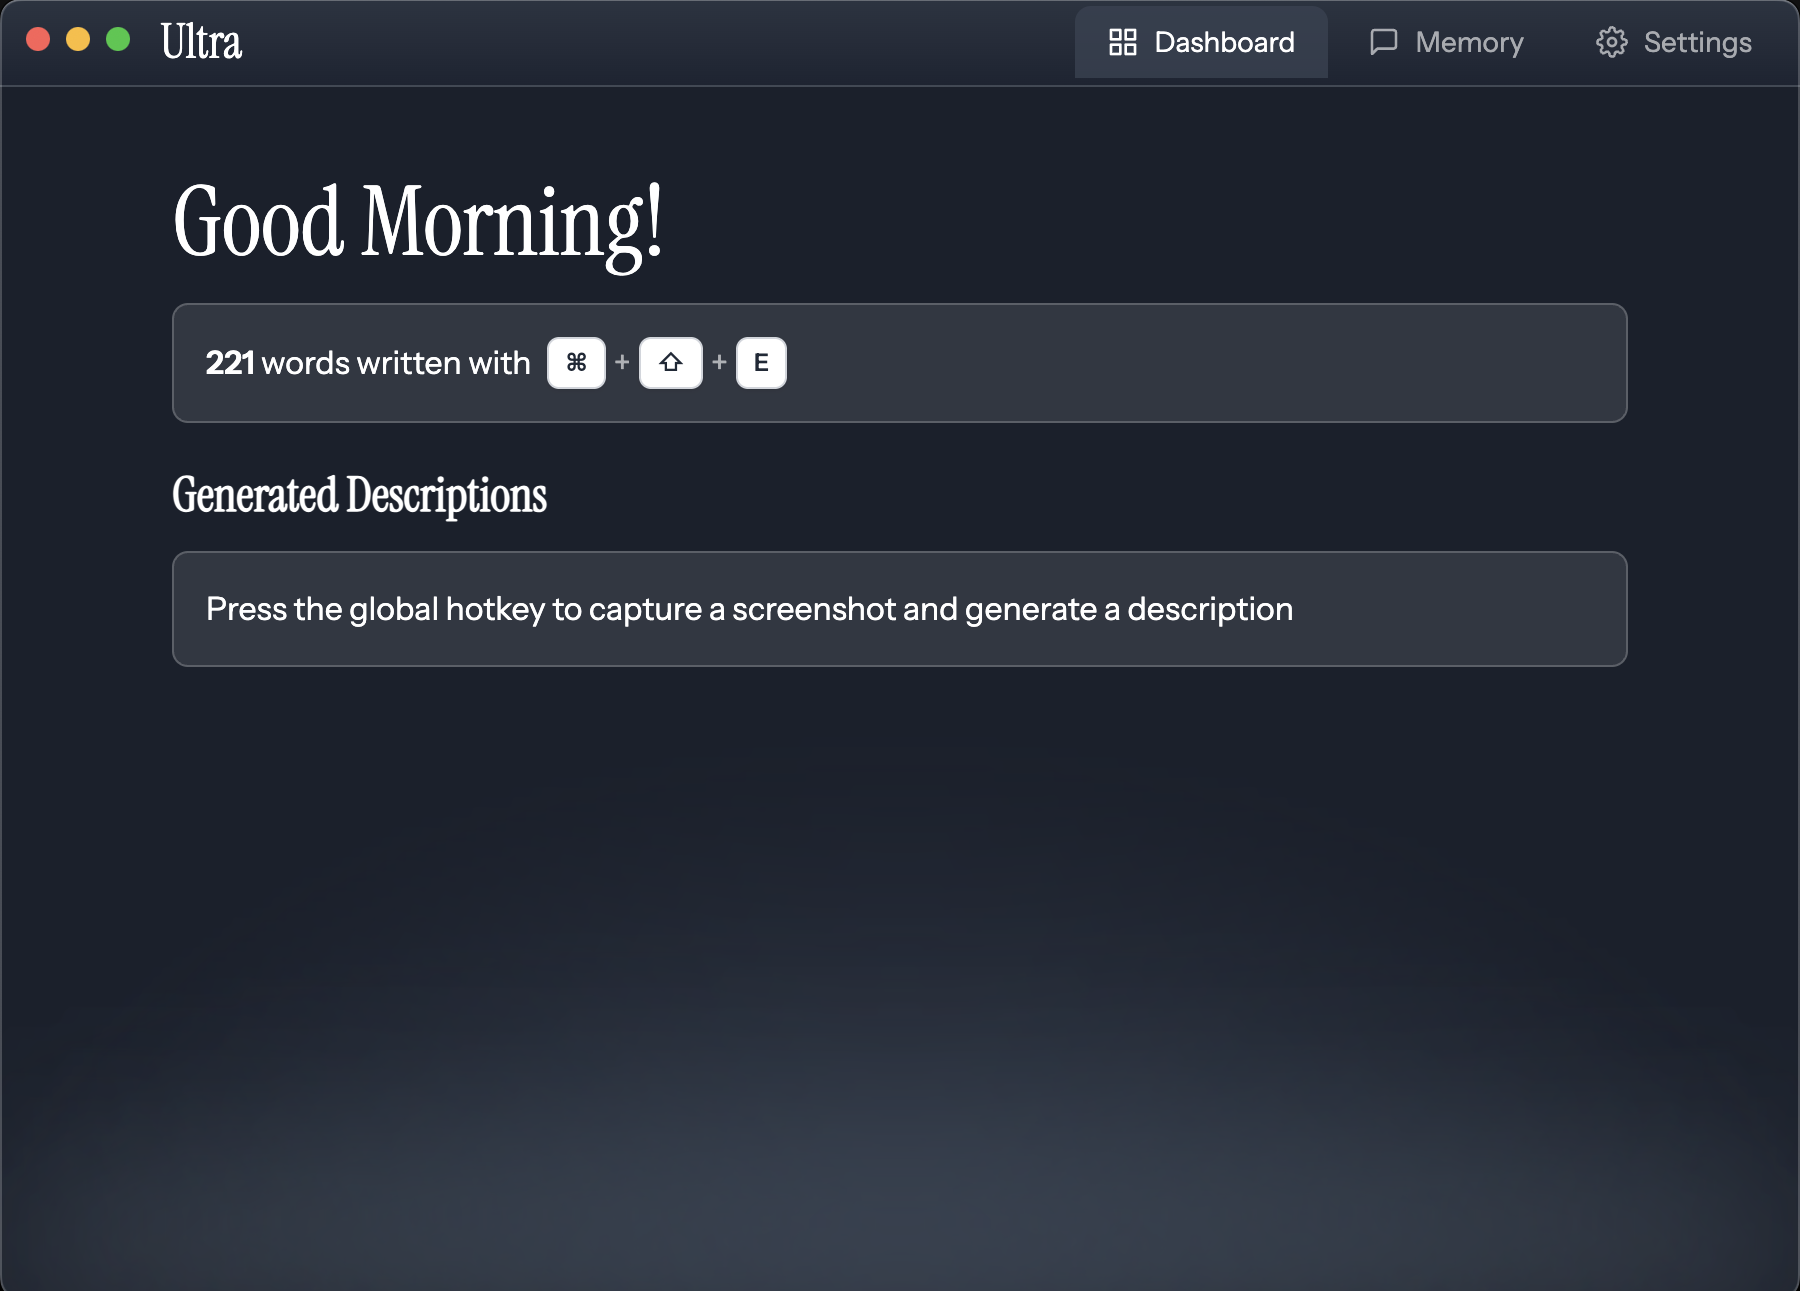
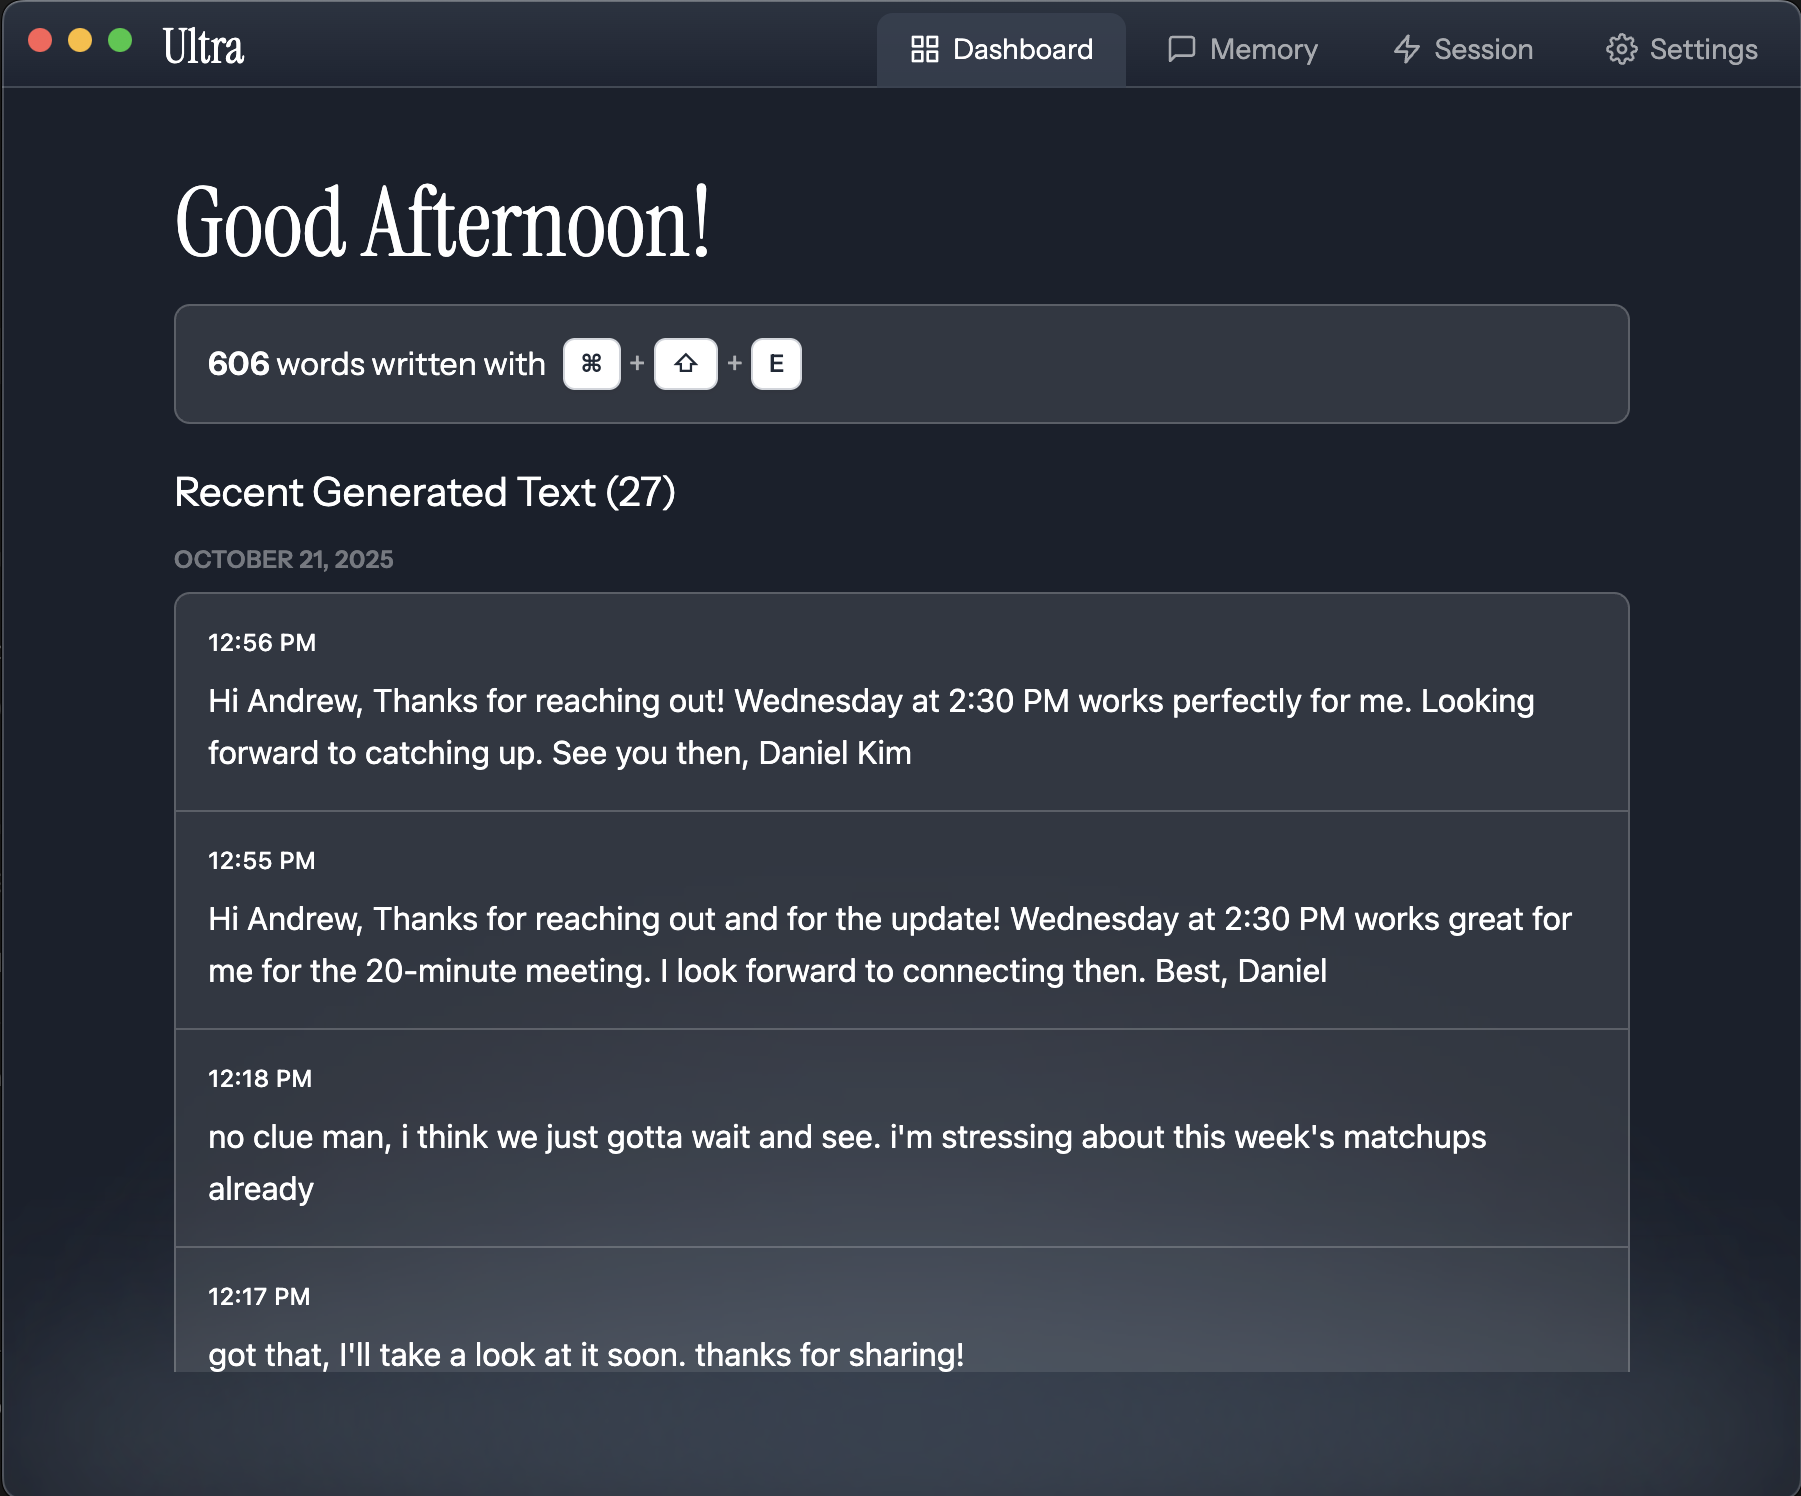
updated images

diff --git a/src/app/projects/ultra/page.tsx b/src/app/projects/ultra/page.tsx
@@ -36,15 +36,15 @@ export default function UltraProject() {
             <p className="mb-1">
               Ultra is a desktop app that allows users to write contextually accurate emails, text messages, answers to job applications, and more using AI. 
               It contains an always-visible overlay, vector embeddings for semantic document search, global hotkey screen capture, cursor annotation, and LLM integration to auto-generate relevant responses from user resumes/documents. It uses SQLite to store context completely locally, keeping your data secure.
-              I also built the landing page for the app, which you can view <a href="https://ultrafill-landing-page.vercel.app/" target="_blank" rel="noopener noreferrer" className="text-blue-200 hover:text-white underline">here</a>.
-              I&apos;m currently working on this project with my friends <a href="https://www.kaival.dev/" target="_blank" rel="noopener noreferrer" className="text-blue-200 hover:text-white underline">Kaival</a> and <a href="https://www.andrew-yuan.com/" target="_blank" rel="noopener noreferrer" className="text-blue-200 hover:text-white underline">Andrew</a>, who are both amazing engineers.
+              I also built the landing page for the app, which you can view <a href="https://useultra.app/" target="_blank" rel="noopener noreferrer" className="text-blue-200 hover:text-white underline">here</a>.
+              I&apos;m currently working on this project with my good friends <a href="https://www.kaival.dev/" target="_blank" rel="noopener noreferrer" className="text-blue-200 hover:text-white underline">Kaival</a> and <a href="https://www.andrew-yuan.com/" target="_blank" rel="noopener noreferrer" className="text-blue-200 hover:text-white underline">Andrew</a>.
             </p>
           </div>
 
           <div className="flex items-center justify-center gap-4 mb-4">
             {/* External Link Button */}
             <a 
-              href="https://ultrafill-landing-page.vercel.app//" 
+              href="https://useultra.app/" 
               target="_blank" 
               rel="noopener noreferrer"
               className="bg-white/10 backdrop-blur-sm rounded-lg border border-white/20 px-4 py-2 hover:bg-white/20 transition-all duration-300 flex items-center gap-2"

diff --git a/src/app/projects/alto/page.tsx b/src/app/projects/alto/page.tsx
@@ -37,7 +37,7 @@ export default function AltoProject() {
               Alto is a mobile app that allows users to transform commutes by interacting with their inbox by voice. 
               Its core feature is a custom voice-to-email system that incorporates real-time speech processing and intelligent Gmail integration. 
               I also built the landing page for the app, which you can view <a href="https://www.usealto.app/" target="_blank" rel="noopener noreferrer" className="text-blue-200 hover:text-white underline">here</a>.
-              I worked on this project with my friends <a href="https://www.kaival.dev/" target="_blank" rel="noopener noreferrer" className="text-blue-200 hover:text-white underline">Kaival</a> and <a href="https://www.andrew-yuan.com/" target="_blank" rel="noopener noreferrer" className="text-blue-200 hover:text-white underline">Andrew</a>, who are both amazing engineers.
+              I worked on this project with my good friends <a href="https://www.kaival.dev/" target="_blank" rel="noopener noreferrer" className="text-blue-200 hover:text-white underline">Kaival</a> and <a href="https://www.andrew-yuan.com/" target="_blank" rel="noopener noreferrer" className="text-blue-200 hover:text-white underline">Andrew</a>.
             </p>
           </div>
 
